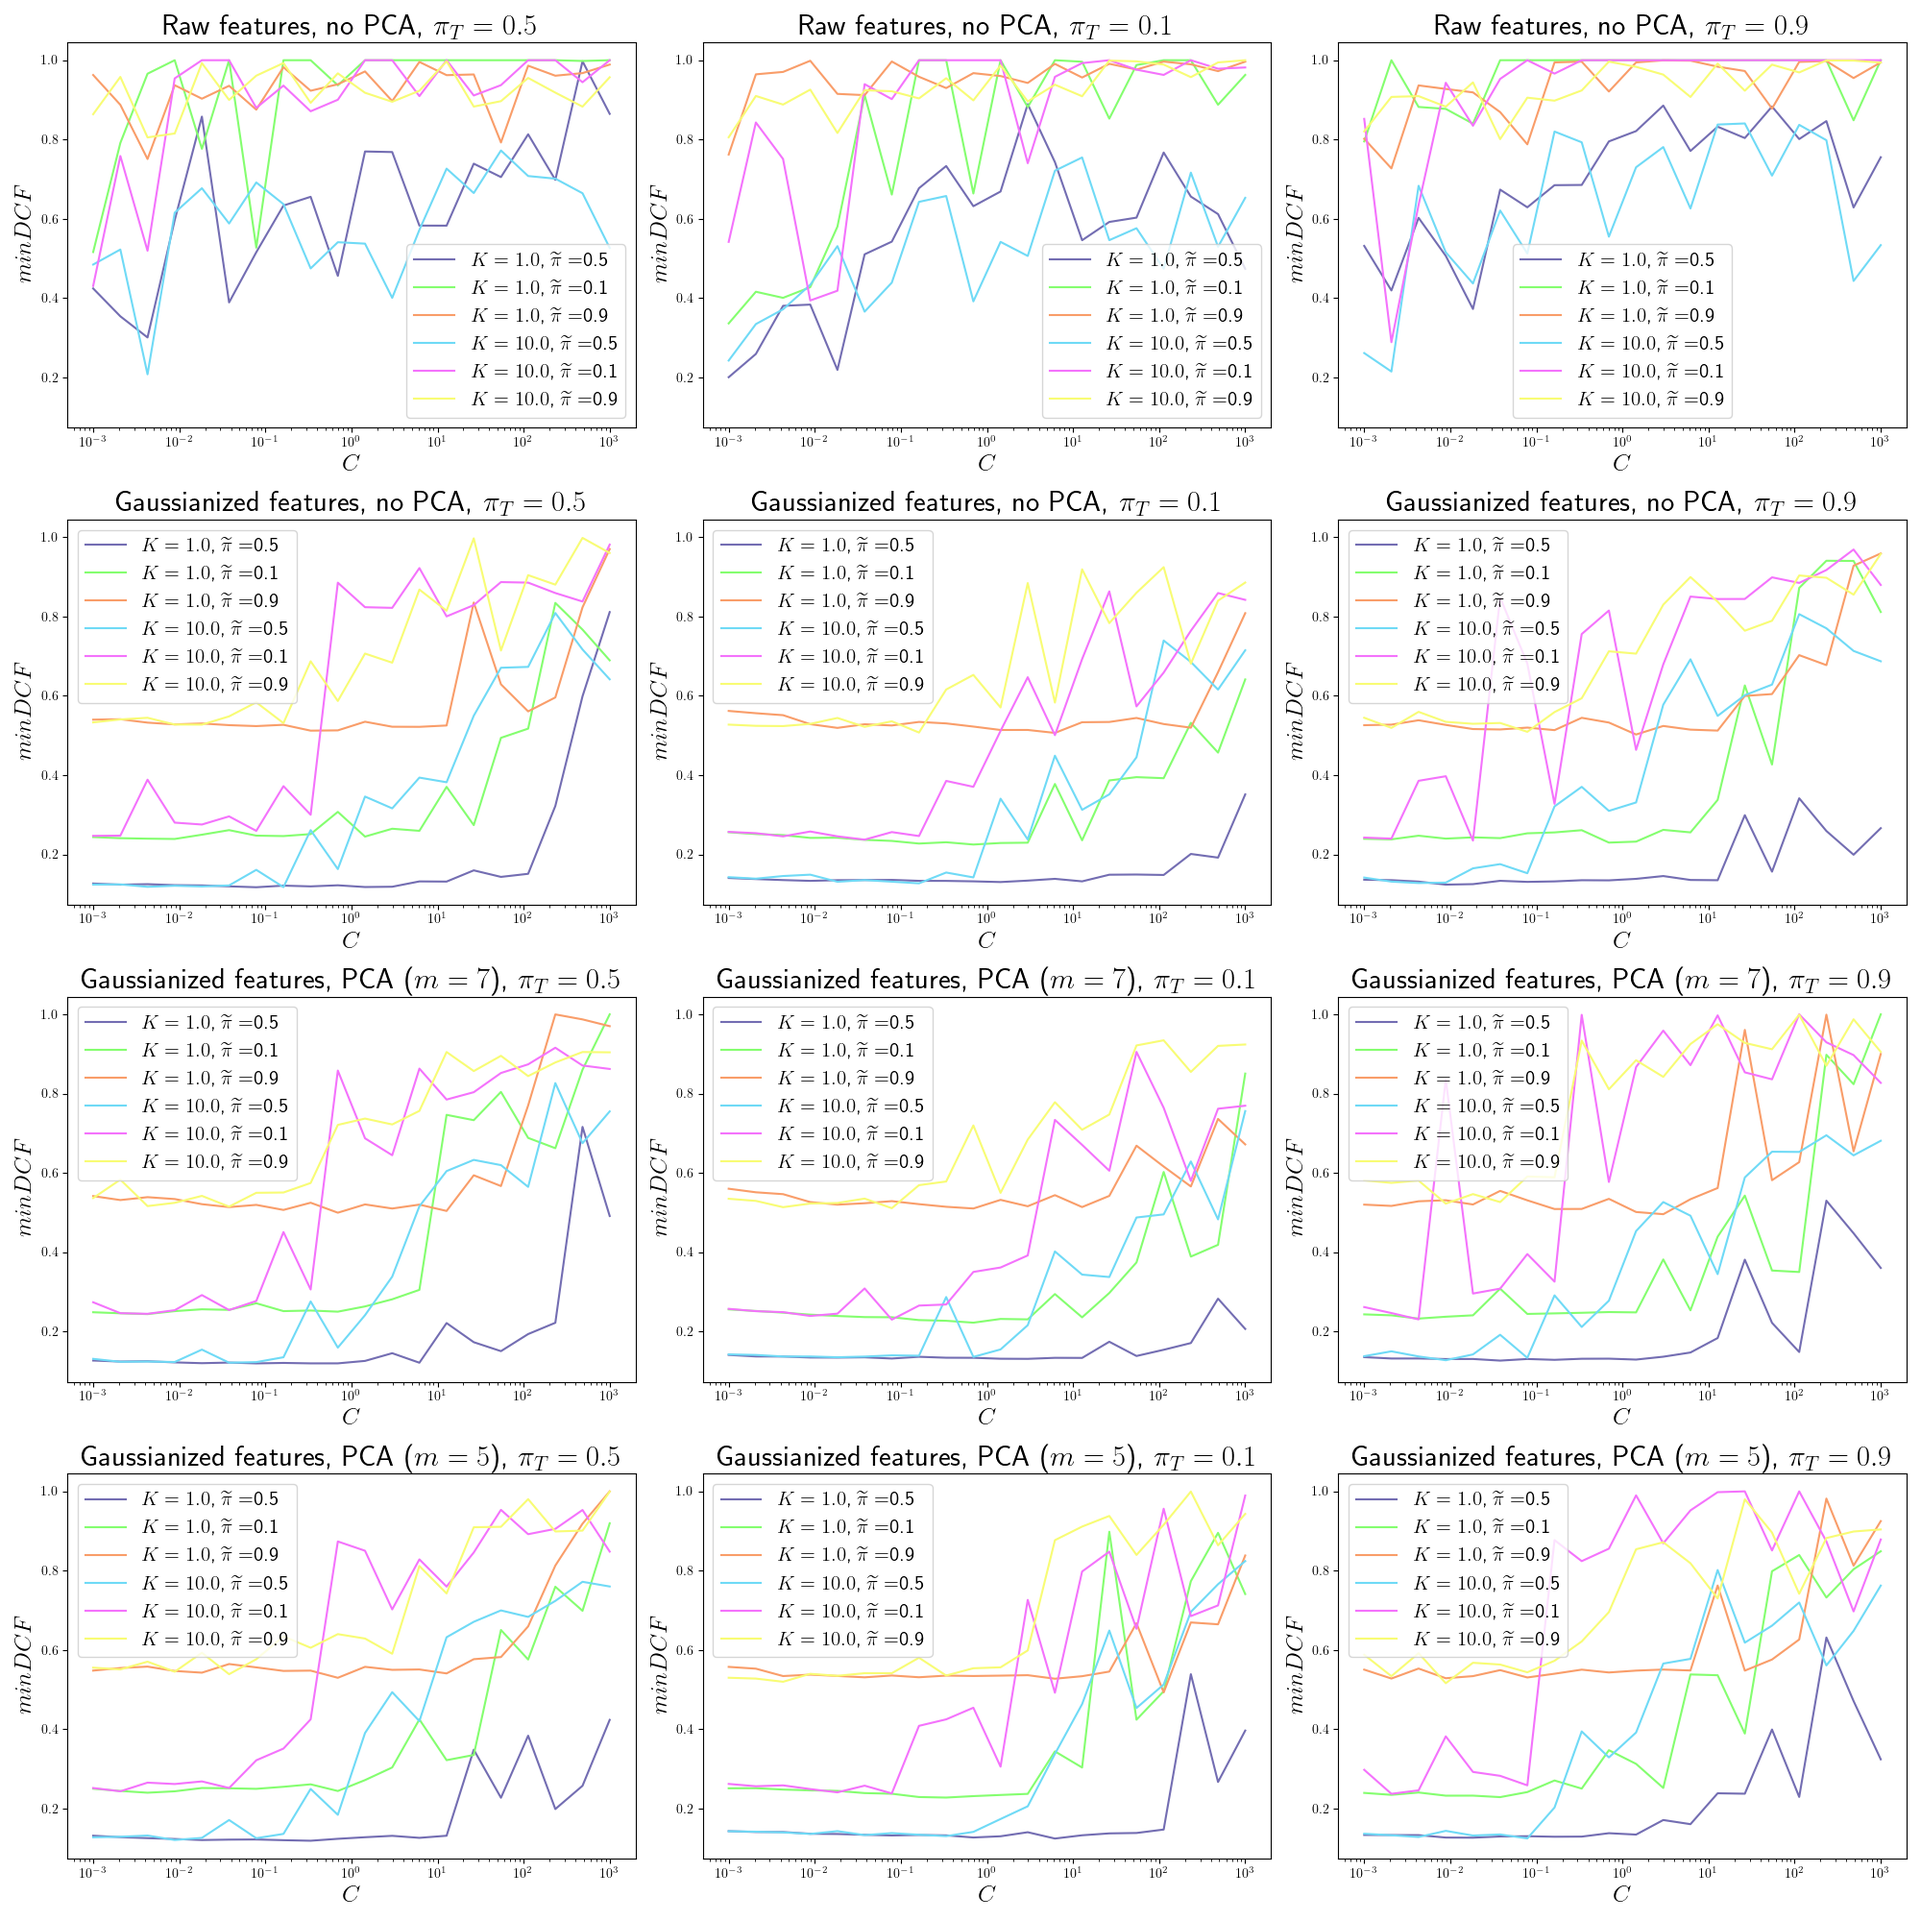
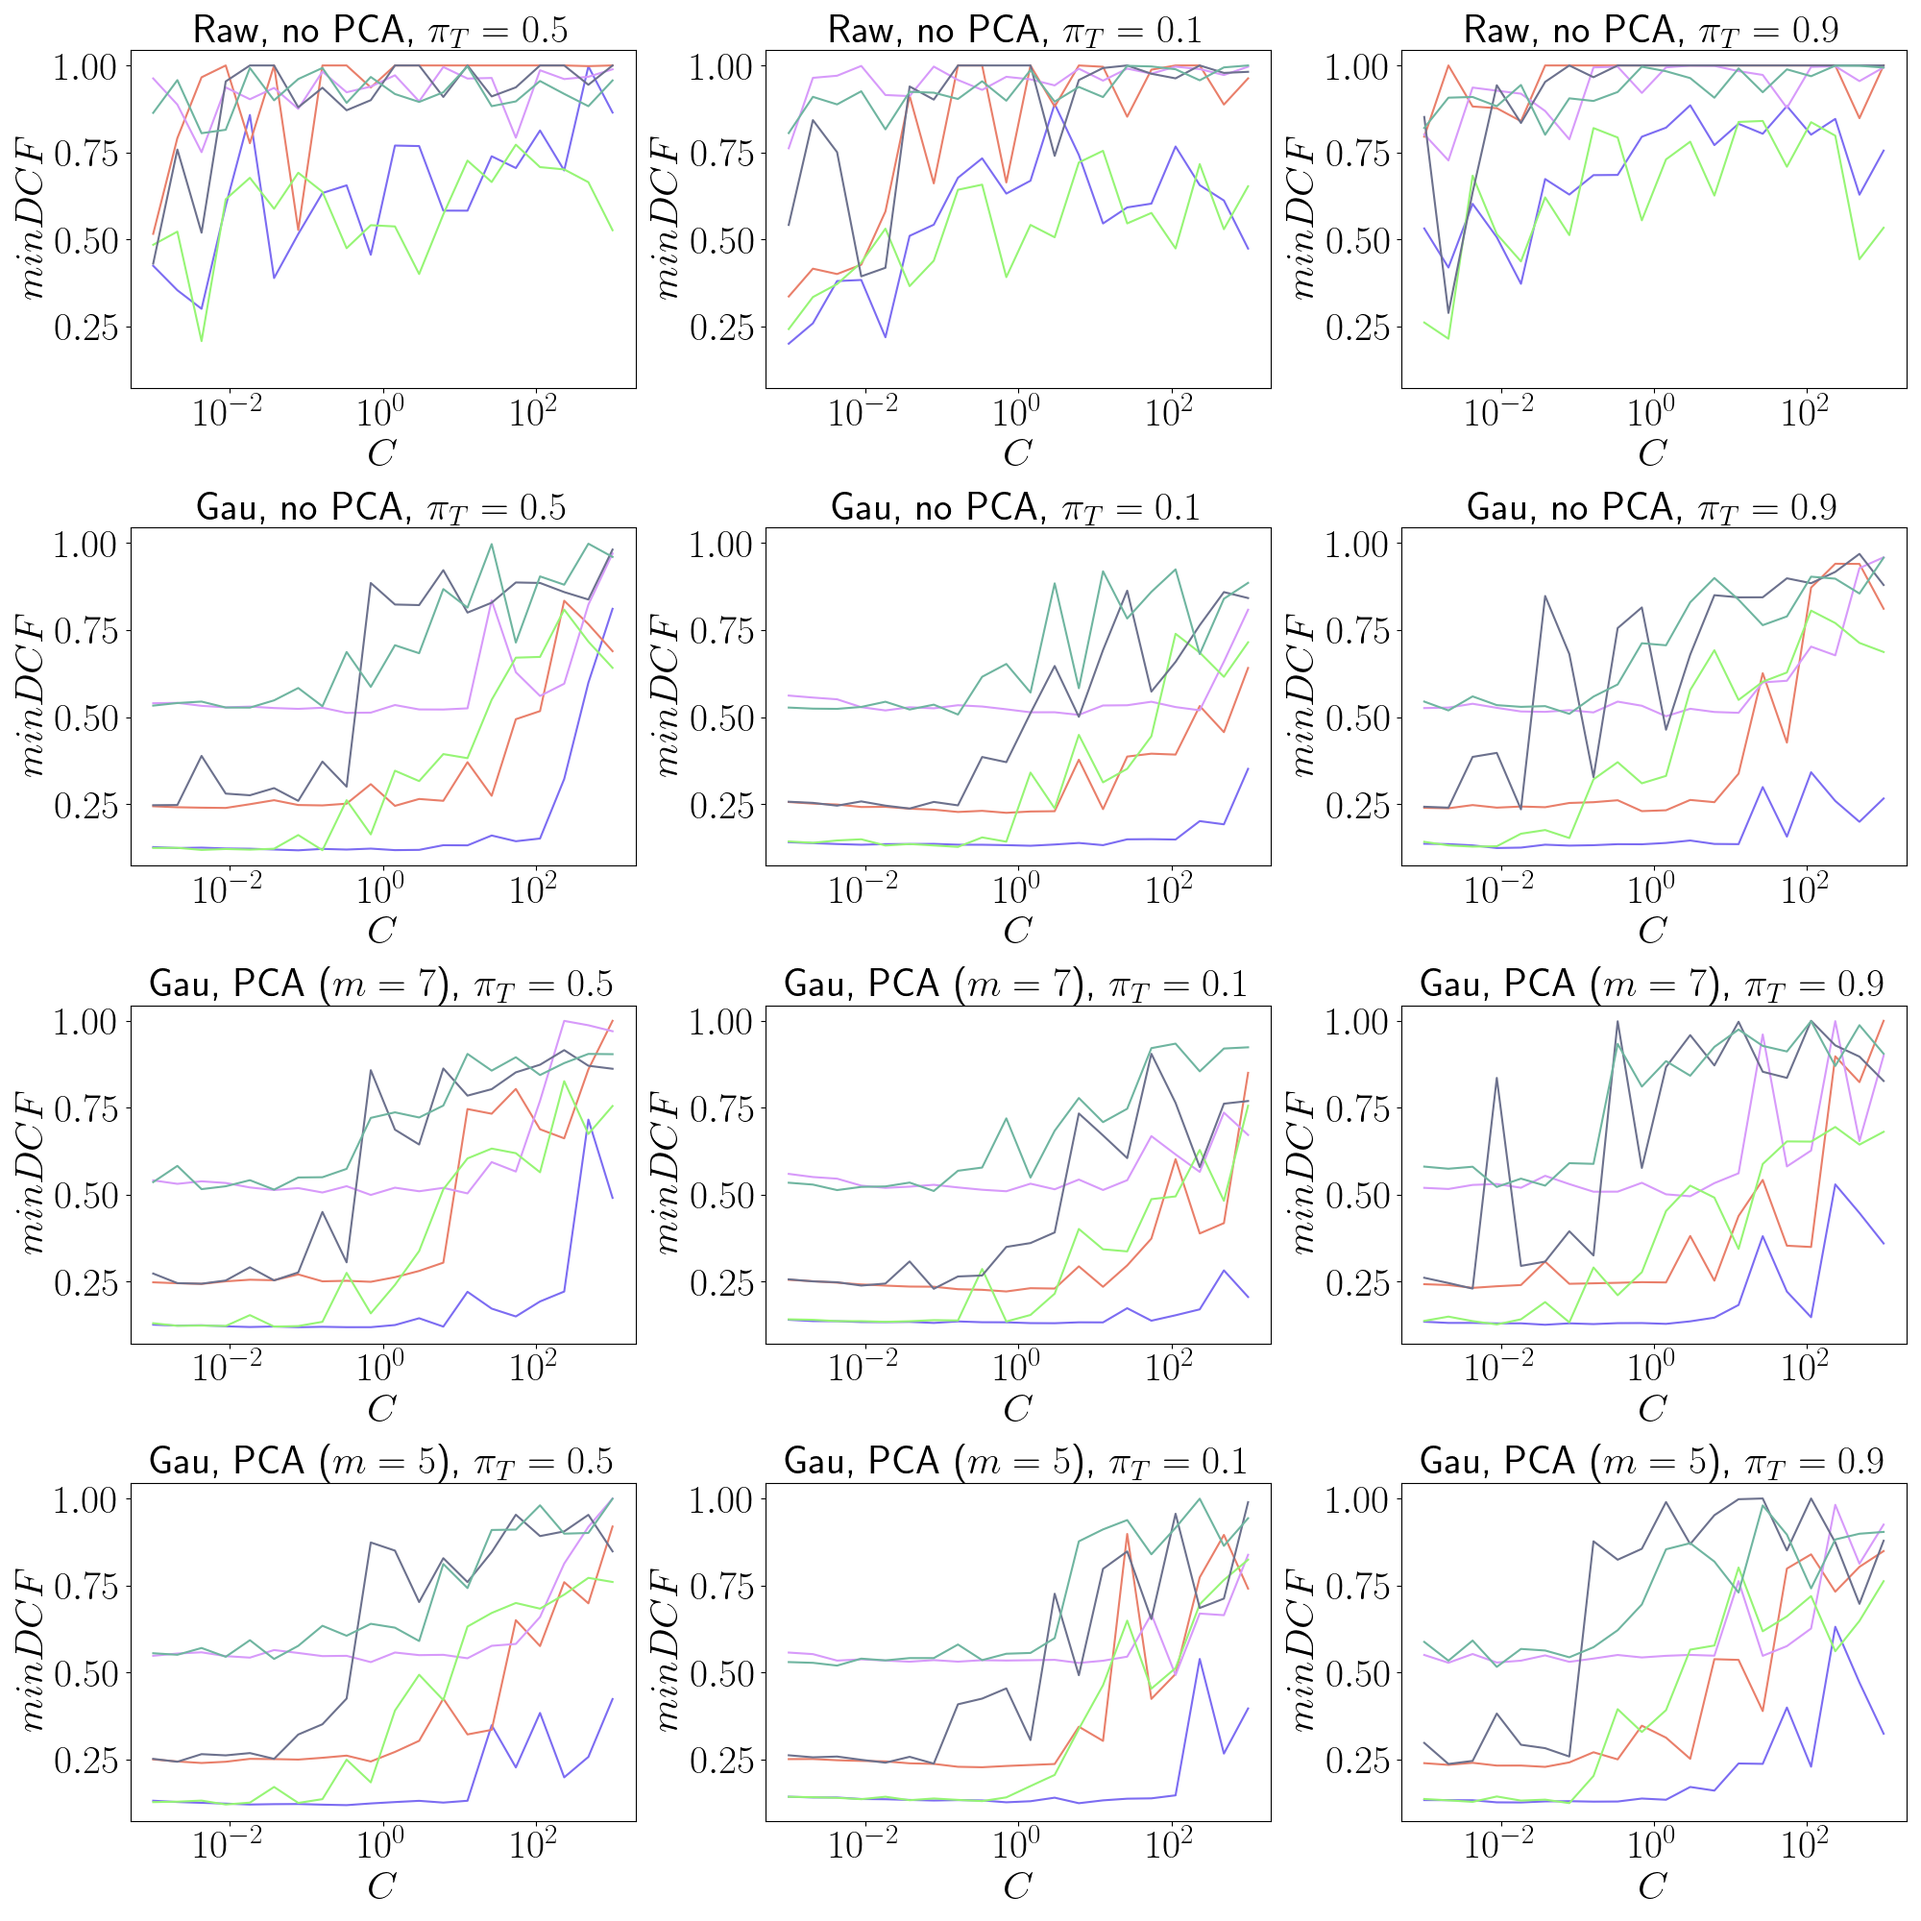
Minor changes + new plots

diff --git a/utils/plot_utils.py b/utils/plot_utils.py
@@ -8,6 +8,7 @@ import matplotlib.pyplot as plt
 import seaborn as sns
 from matplotlib import ticker
 
+
 # from preprocessing.preprocessing import gaussianize
 
 
@@ -99,7 +100,7 @@ def create_scatterplots2(training_data, training_labels):
     colors = ['red', 'blue']
 
     raw_data = training_data
-    gaussianized_data = 0 # gaussianize(training_data, training_data)
+    gaussianized_data = 0  # gaussianize(training_data, training_data)
 
     titles = ['1. Mean of the integrated profile',
               '2. Standard deviation of the integrated profile',
@@ -170,7 +171,8 @@ def plot_lambda():
             axs[i // 2, i % 2].set_xscale('log')
 
             xticks = [1.e-09, 1.e-08, 1.e-06, 1.e-04, 1.e-02, 1.e+00, 1.e+02, 1.e+04, 1.e+06]
-            xlabels = [r"$0$", r"$10^{-8}$", r"$10^{-6}$", r"$10^{-4}$", r"$10^{-2}$", r"$10^0$", r"$10^2$", r"$10^4$", r"$10^6$"]
+            xlabels = [r"$0$", r"$10^{-8}$", r"$10^{-6}$", r"$10^{-4}$", r"$10^{-2}$", r"$10^0$", r"$10^2$", r"$10^4$",
+                       r"$10^6$"]
 
             axs[i // 2, i % 2].set_xticks(xticks, xlabels)
             axs[i // 2, i % 2].get_xaxis().get_major_formatter().labelOnlyBase = False
@@ -309,15 +311,15 @@ def plot_tuning_LinearSVMBalanced():
         "text.usetex": True,
         "font.family": "sans-serif",
         "font.sans-serif": ["Computer Modern Serif"],
-        "axes.titlesize": 22,
-        "axes.labelsize": 18,
-        "legend.fontsize": 15
+        "axes.titlesize": 30,
+        "axes.labelsize": 30,
+        "legend.fontsize": 20,
+        "xtick.labelsize": 30,
+        "ytick.labelsize": 30,
     })
 
     i = 0
     fig, axs = plt.subplots(4, 3, sharey='all')
-    axs.tick_params(axis='both', which='major', fontsize=40)
-    colors = distinctipy.get_colors(6, pastel_factor=0.7)
 
     for m in m_values:
         j = 0
@@ -326,15 +328,14 @@ def plot_tuning_LinearSVMBalanced():
             for idx, (K, pi) in enumerate(hyperparameters):
                 DCFs = np.load(
                     f"../simulations/linearSVM/balanced/K{str(K).replace('.', '-')}_p{str(pi).replace('.', '-')}_pT{str(pi_T).replace('.', '-')}_PCA{str(m)}.npy")
-                axs[i, j].plot(C_values, DCFs, color=colors[idx],
-                               label=rf"$K={K}$,\;" + r"$\widetilde{\pi}=$" + f"{pi}")
+                axs[i, j].plot(C_values, DCFs, color=colors[idx], label=rf"$K={K}$,\;" + r"$\widetilde{\pi}=$" + f"{pi}")
                 if m is None:
-                    axs[i, j].set_title('Gaussianized features, no PCA' + rf', $\pi_T={pi_T}$')
+                    axs[i, j].set_title('Gau, no PCA' + rf', $\pi_T={pi_T}$')
                 elif m == False:
-                    axs[i, j].set_title('Raw features, no PCA, ' + rf'$\pi_T={pi_T}$')
+                    axs[i, j].set_title('Raw, no PCA, ' + rf'$\pi_T={pi_T}$')
                 else:
-                    axs[i, j].set_title('Gaussianized features, PCA ' + rf'($m = {m}$), $\pi_T={pi_T}$')
-                axs[i, j].legend()
+                    axs[i, j].set_title('Gau, PCA ' + rf'($m = {m}$), $\pi_T={pi_T}$')
+                # axs[i, j].legend()
                 axs[i, j].set_xlabel(r'$C$')
                 axs[i, j].set_ylabel(r'$minDCF$')
                 axs[i, j].set_xscale('log')
@@ -344,6 +345,14 @@ def plot_tuning_LinearSVMBalanced():
 
     fig.set_size_inches(20, 20)
     fig.tight_layout()
+
+    label_params = axs[0, 0].get_legend_handles_labels()
+
+    figl, axl = plt.subplots(figsize=(6.5, 5))
+    axl.axis(False)
+    axl.legend(*label_params, loc="center", bbox_to_anchor=(0.5, 0.5), prop={"size": 40})
+    figl.show()
+
     fig.show()
 
 
@@ -455,11 +464,14 @@ def bayes_error_plots(classifier):
 
 
 if __name__ == '__main__':
+    # colors = distinctipy.get_colors(6, pastel_factor=0.7, colorblind_type='Deuteranomaly')
+    # print(colors)
+    colors = [(0.48702807223549177, 0.4242891647177821, 0.9480975665882982), (0.9146761531779931, 0.4970424422244128, 0.41460357267068376), (0.843602824944377, 0.6031154951690304, 0.9802318468625552), (0.5887251240359368, 0.9624135405893406, 0.4585532945832182), (0.422567523593921, 0.44218101996887993, 0.5516040738892886), (0.43399916426535, 0.7098723267606655, 0.6255076508970907)]
     # plot_lambda()
     # plot_tuningPolySVM()
     # plot_tuningRBFSVM()
     # plot_tuningLinearSVMUnbalanced()
-    # plot_tuning_LinearSVMBalanced()
+    plot_tuning_LinearSVMBalanced()
 
     # print(os.path.abspath("../simulations/GMM/GMM_rawFeature-False_PCA7_diag.npy"))
     # plot_tuningGMM2()

diff --git a/main.py b/main.py
@@ -48,8 +48,8 @@ def main():
 
     # =============== LOGISTIC REGRESSION ===============
     # tuning_lambda(training_data, training_labels)
-    lbd = 1e-6
-    # LR_simulations(training_data, training_labels, lbd)
+    lbd = 1e-7
+    LR_simulations(training_data, training_labels, lbd)
 
     # =============== SUPPORT VECTOR MACHINE ===============
     # print("LINEAR SVM - TUNING PARAMETERS")
@@ -115,10 +115,9 @@ def main():
     # GMM_Simulations(training_data, training_labels, g, alpha=0.1, psi=0.01, actualDCF=True, calibratedScore=True)
 
     # =============== BAYES ERROR PLOT ==================
-    print("=============== BAYES ERROR PLOT ==================")
-    # MVG
-    bayes_error_plots_data(training_data, training_labels, MVG, m=None, raw=False, variant="tied")
-    bayes_error_plots(MVG)
+    # print("=============== BAYES ERROR PLOT ==================")
+    # bayes_error_plots_data(training_data, training_labels, MVG, m=None, raw=False, variant="tied")
+    # bayes_error_plots(MVG)
 
     # =============== EXPERIMENTAL RESULT ===============
 
